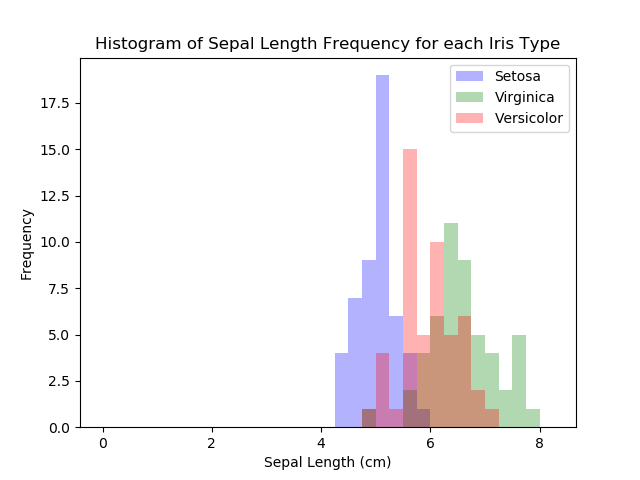
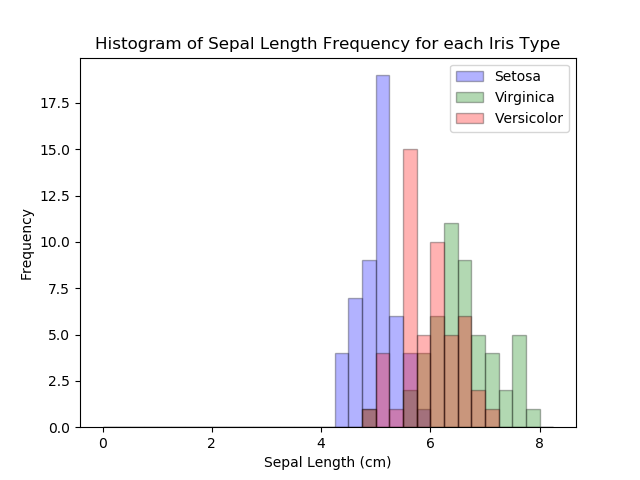
Added edgecolour to the separated Histograms to make the overlaps easier to read.

Changed region(s): [[0.5312, 0.5, 0.8438, 0.9062], [0.7188, 0.1875, 0.75, 0.2188], [0.625, 0.3125, 0.6562, 0.3438]]

diff --git a/irisAnalysis.py b/irisAnalysis.py
@@ -119,9 +119,9 @@ for measurement in df.columns:
     upper = df[measurement].max()
     binsizes = np.arange(0, round(upper) + 0.5, 0.25)
     fig, ax = plt.subplots()
-    ax.hist(iris_setosa[measurement], color='b', label='Setosa', alpha =0.3, bins=binsizes)
-    ax.hist(iris_virginica[measurement], color='g', label = 'Virginica', alpha = 0.3, bins = binsizes)
-    ax.hist(iris_versicolor[measurement], color='r', label = 'Versicolor', alpha = 0.3, bins = binsizes)
+    ax.hist(iris_setosa[measurement], facecolor='b', edgecolor = 'k', label='Setosa', alpha =0.3, bins=binsizes)
+    ax.hist(iris_virginica[measurement], facecolor='g', edgecolor = 'k', label = 'Virginica', alpha = 0.3, bins = binsizes)
+    ax.hist(iris_versicolor[measurement], facecolor='r', edgecolor = 'k', label = 'Versicolor', alpha = 0.3, bins = binsizes)
     name = nameFormat(measurement)
     ax.set_xlabel(name + ' (cm)')
     ax.set_ylabel ("Frequency")
